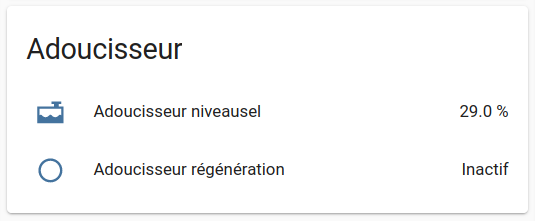
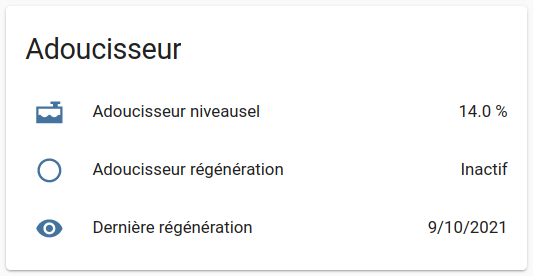
Ajout senseur date dernière régénération

diff --git a/README.md b/README.md
@@ -106,6 +106,19 @@ Le Wemos va apparaitre directement en tant que **Appareil (device)** dans la con
 
 [![ha_device_adoucisseur](./images/thumb_ha_device_adoucisseur_3.png)](./images/ha_device_adoucisseur_3.png)
 
+
+Le *senseur* **Dernière régénération** est généré à partir de l'intégratin [sql](https://www.home-assistant.io/integrations/sql/)
+
+```sql
+- platform: sql
+  db_url: !secret recorder_db_url
+  queries:
+    - name: Dernière régénération
+      query: "SELECT DATE_FORMAT(last_updated,'%e/%m/%Y') as date, state  FROM states WHERE entity_id = 'binary_sensor.adoucisseur_regeneration' AND state='on' GROUP BY date ORDER BY last_updated DESC LIMIT 1;"
+      column: "date"
+```
+
+
 <br>
 
 ## Photos
